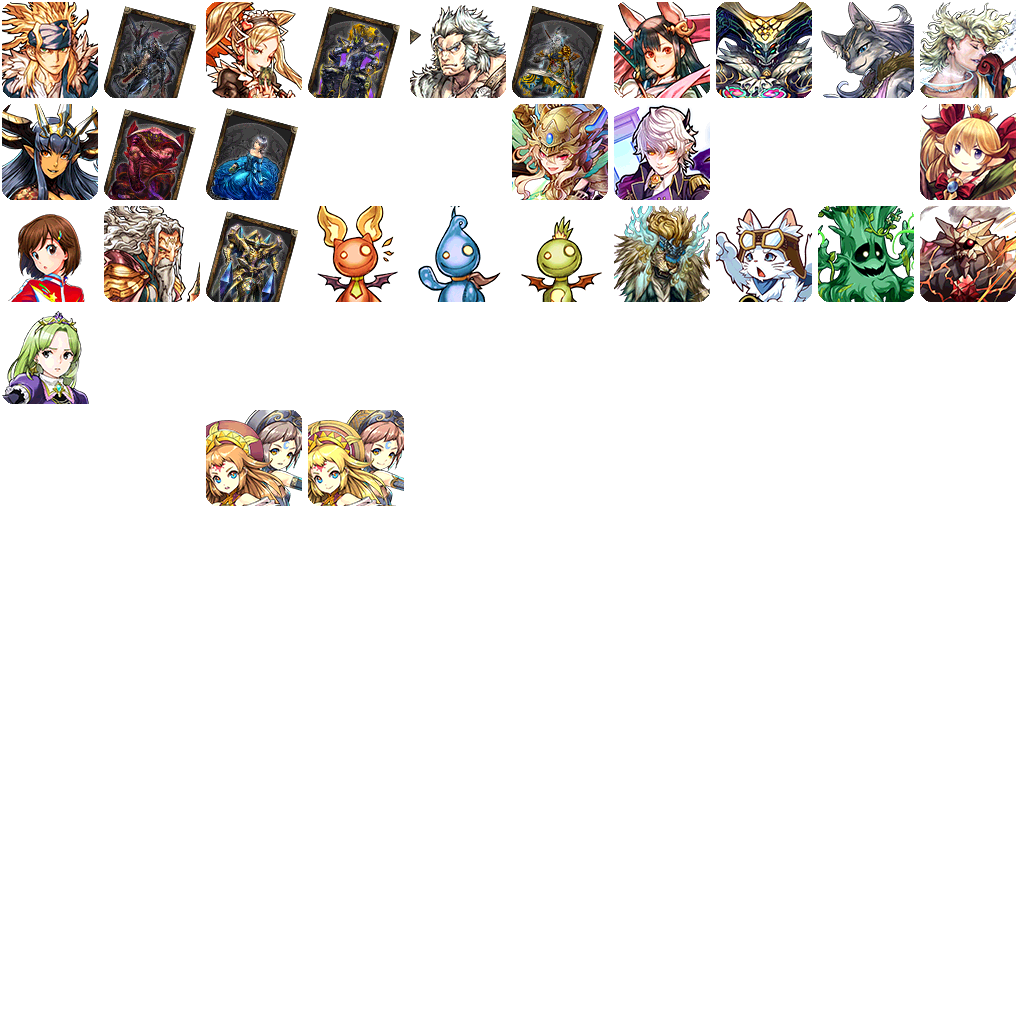
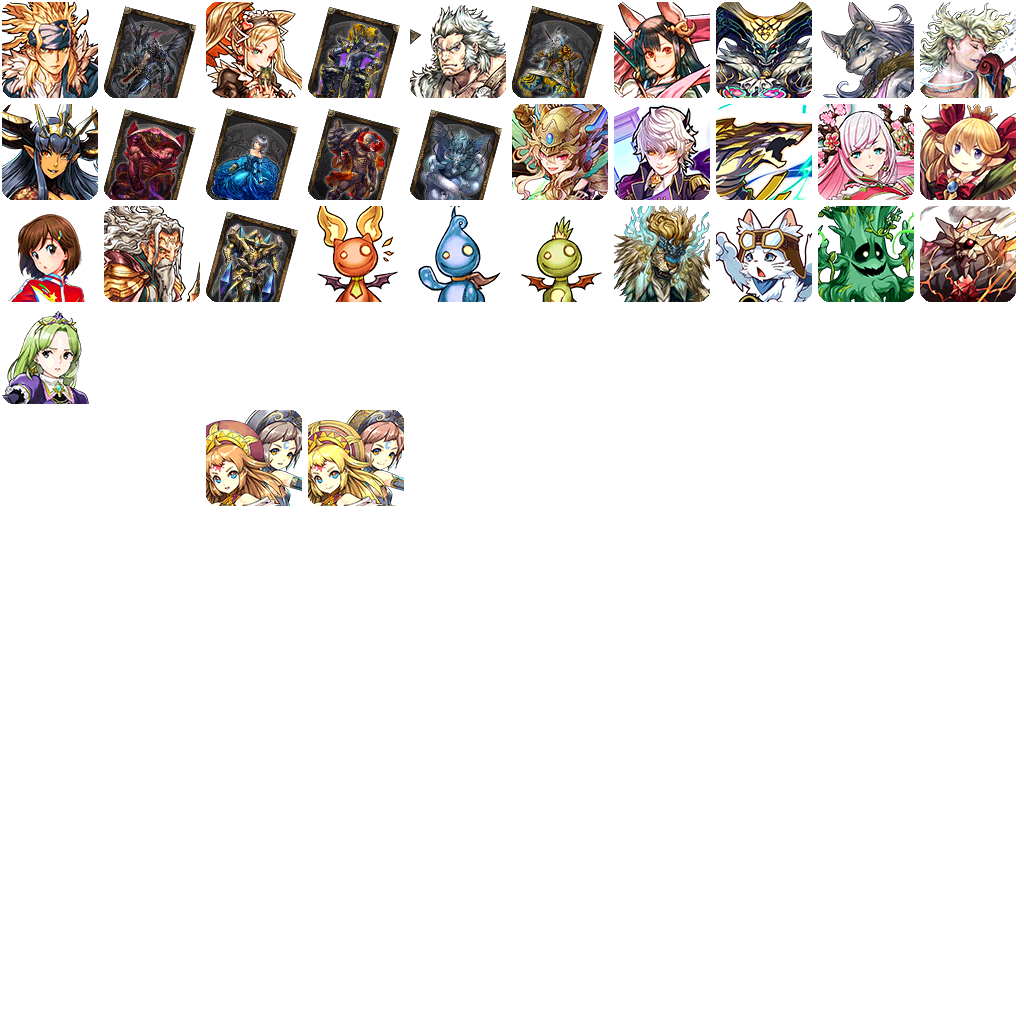
增加友情武器

Changed region(s): [[0.6875, 0.0938, 0.9062, 0.2188], [0.2812, 0.0938, 0.5, 0.2188]]

diff --git a/生成二技宠物JSON.js b/生成二技宠物JSON.js
@@ -140,6 +140,8 @@ var monsterList = [
     {group: "友情桶：GungHo其他游戏合作（限时）",ids: [
         4712, //破滅之化身堤豐的卡
         4713, //悲劇之姬海倫的卡
+        4714, //半神之英雄海克力斯的卡
+        4715, //白龍的卡
     ]},
     {group: "第三方合作（限时）",ids: [
         3629, //告知時代終結的黒龍・亞克諾羅基亞
